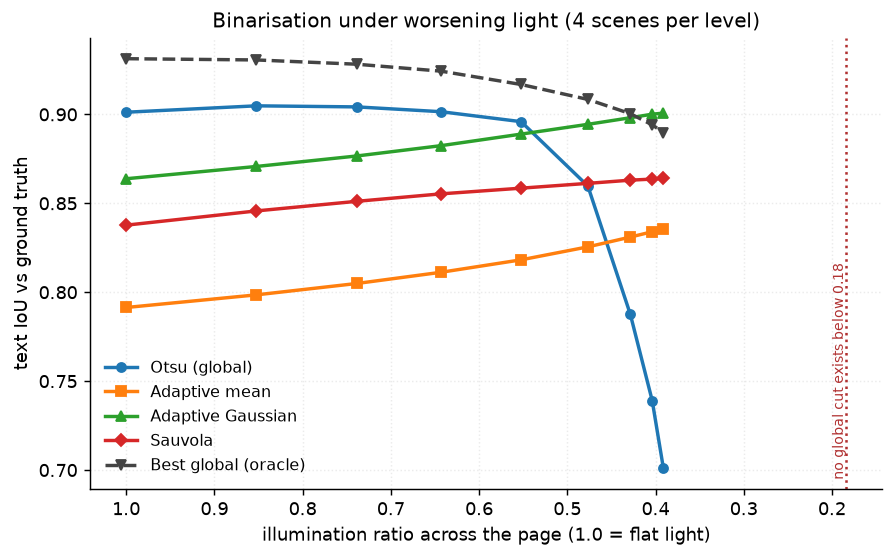
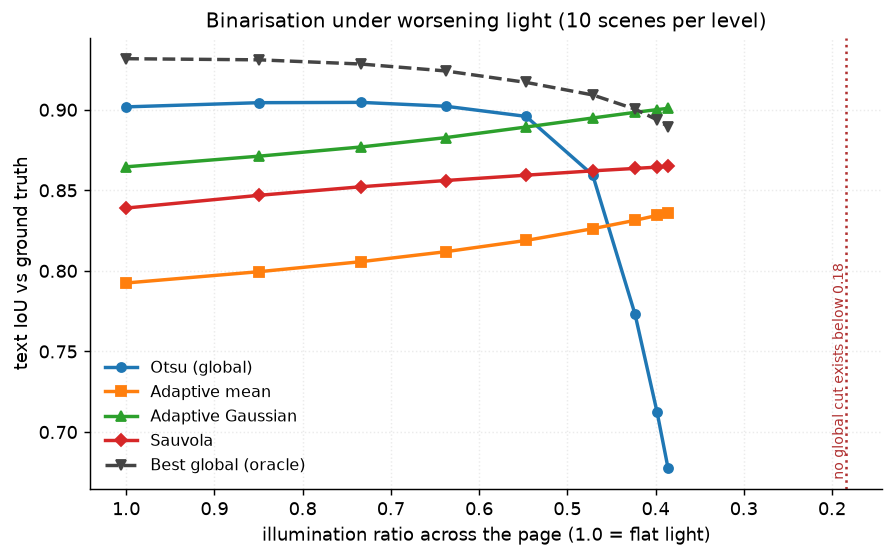
Project 01: regenerate results from the current code
The committed results.json predated a change to the scene generator, so the
illumination sweep on disk disagreed with the README above it — the sweep's
deepest level read page ratio 0.3911 / Otsu 0.7010 where the README quoted
0.386 / 0.678.

The README was the correct one. run.py is fully seeded, so re-running
reproduces its numbers exactly: page ratio 0.3858, Otsu 0.6775, oracle
0.8896. The stale artefact was the JSON, and it is now regenerated along
with the five figures that derive from it.

The detector comparison also drops from 6.9 MB to 1.2 MB under the new
gallery dpi cap, with no visible change at README size.

diff --git a/projects/01_document_scanner/results/tables.md b/projects/01_document_scanner/results/tables.md
@@ -1,40 +1,40 @@
-### Page-boundary detection (12 scenes)
+### Page-boundary detection (30 scenes)
 
 | Method | Found a quad | Usable (≤10 px) | Mean corner err (px) | Median (px) | p90 (px) | Area IoU | Time (ms) |
 |---|---:|---:|---:|---:|---:|---:|---:|
-| Canny + contour | 100% | 100% | 2.647 | 2.667 | 2.773 | 0.9827 | 2.294 |
-| Otsu + contour | 100% | 100% | 1.068 | 1.041 | 1.224 | 0.9935 | 1.535 |
-| Morph gradient | 100% | 100% | 1.269 | 1.283 | 1.373 | 0.9917 | 2.203 |
-| Saturation (HSV) | 100% | 100% | 0.852 | 0.851 | 1.067 | 0.9939 | 2.369 |
-| Hough lines | 100% | 58% | 35.177 | 1.575 | 96.356 | 0.8602 | 10.223 |
-| minAreaRect (baseline) | 100% | 0% | 20.55 | 21.11 | 25.231 | 0.8909 | 1.397 |
+| Canny + contour | 100% | 100% | 2.676 | 2.689 | 2.817 | 0.9821 | 2.353 |
+| Otsu + contour | 100% | 100% | 1.068 | 1.041 | 1.305 | 0.9934 | 1.634 |
+| Morph gradient | 100% | 100% | 1.326 | 1.328 | 1.465 | 0.9911 | 1.944 |
+| Saturation (HSV) | 100% | 100% | 0.898 | 0.87 | 1.19 | 0.994 | 2.652 |
+| Hough lines | 100% | 73% | 30.288 | 1.379 | 106.063 | 0.8785 | 11.829 |
+| minAreaRect (baseline) | 100% | 10% | 20.15 | 22.158 | 28.136 | 0.8932 | 1.425 |
 
-### Binarisation (12 scenes, illumination ratio 0.62)
+### Binarisation (30 scenes, illumination ratio 0.62)
 
 | Method | Text IoU (mean) | Text IoU (median) | Time (ms) |
 |---|---:|---:|---:|
-| Otsu (global) | 0.9052 | 0.9056 | 0.143 |
-| Adaptive mean | 0.8017 | 0.8006 | 0.278 |
-| Adaptive Gaussian | 0.8732 | 0.873 | 0.915 |
-| Sauvola | 0.849 | 0.8485 | 11.649 |
+| Otsu (global) | 0.9045 | 0.9048 | 0.121 |
+| Adaptive mean | 0.8009 | 0.7999 | 0.325 |
+| Adaptive Gaussian | 0.872 | 0.872 | 1.064 |
+| Sauvola | 0.8483 | 0.8479 | 18.341 |
 
-### Binarisation vs illumination (4 scenes per level, text IoU)
+### Binarisation vs illumination (10 scenes per level, text IoU)
 
 | Page illum. ratio | Otsu (global) | Adaptive mean | Adaptive Gaussian | Sauvola | Best global (oracle) |
 |---|---:|---:|---:|---:|---:|
-| 1 | 0.9012 | 0.7914 | 0.8638 | 0.8377 | 0.9313 |
-| 0.8526 | 0.9048 | 0.7985 | 0.8707 | 0.8457 | 0.9306 |
-| 0.7387 | 0.9042 | 0.8049 | 0.8766 | 0.8511 | 0.9282 |
-| 0.6432 | 0.9015 | 0.8112 | 0.8824 | 0.8553 | 0.9243 |
-| 0.5524 | 0.8959 | 0.8182 | 0.8889 | 0.8585 | 0.9168 |
-| 0.4767 | 0.8597 | 0.8255 | 0.8944 | 0.8612 | 0.9084 |
-| 0.4286 | 0.7876 | 0.831 | 0.8981 | 0.863 | 0.9004 |
-| 0.4038 | 0.7391 | 0.834 | 0.9001 | 0.8636 | 0.8941 |
-| 0.3911 | 0.701 | 0.8355 | 0.9007 | 0.8641 | 0.8898 |
+| 1 | 0.9018 | 0.7925 | 0.8646 | 0.839 | 0.9317 |
+| 0.8496 | 0.9044 | 0.7995 | 0.8712 | 0.8469 | 0.931 |
+| 0.7342 | 0.9046 | 0.8057 | 0.8769 | 0.8522 | 0.9284 |
+| 0.638 | 0.9022 | 0.8119 | 0.8827 | 0.8561 | 0.9241 |
+| 0.5468 | 0.8959 | 0.8189 | 0.8893 | 0.8594 | 0.917 |
+| 0.4712 | 0.8595 | 0.8262 | 0.8949 | 0.8621 | 0.9092 |
+| 0.4232 | 0.773 | 0.8314 | 0.8984 | 0.8636 | 0.9004 |
+| 0.3984 | 0.7127 | 0.8344 | 0.9001 | 0.8644 | 0.8938 |
+| 0.3858 | 0.6775 | 0.836 | 0.9009 | 0.8648 | 0.8896 |
 
-### Aspect-ratio recovery (12 scenes, % error)
+### Aspect-ratio recovery (30 scenes, % error)
 
 | Method | True w/h | Recovered w/h | Mean error | Worst error |
 |---|---:|---:|---:|---:|
-| Edge lengths (tutorial method) | 0.7143 | 0.7383 | 6.25 | 14.72 |
+| Edge lengths (tutorial method) | 0.7143 | 0.7329 | 6.62 | 17.5 |
 | Perspective (closed form) | 0.7143 | 0.7138 | 0.07 | 0.07 |
